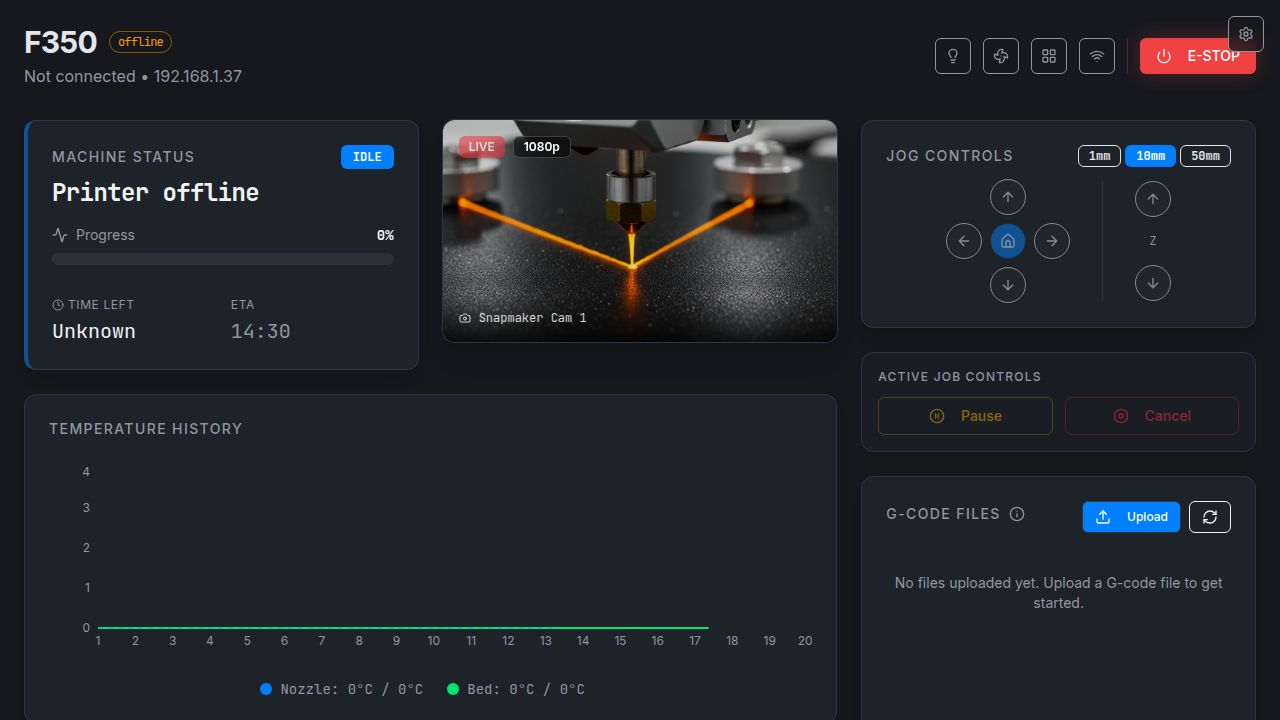
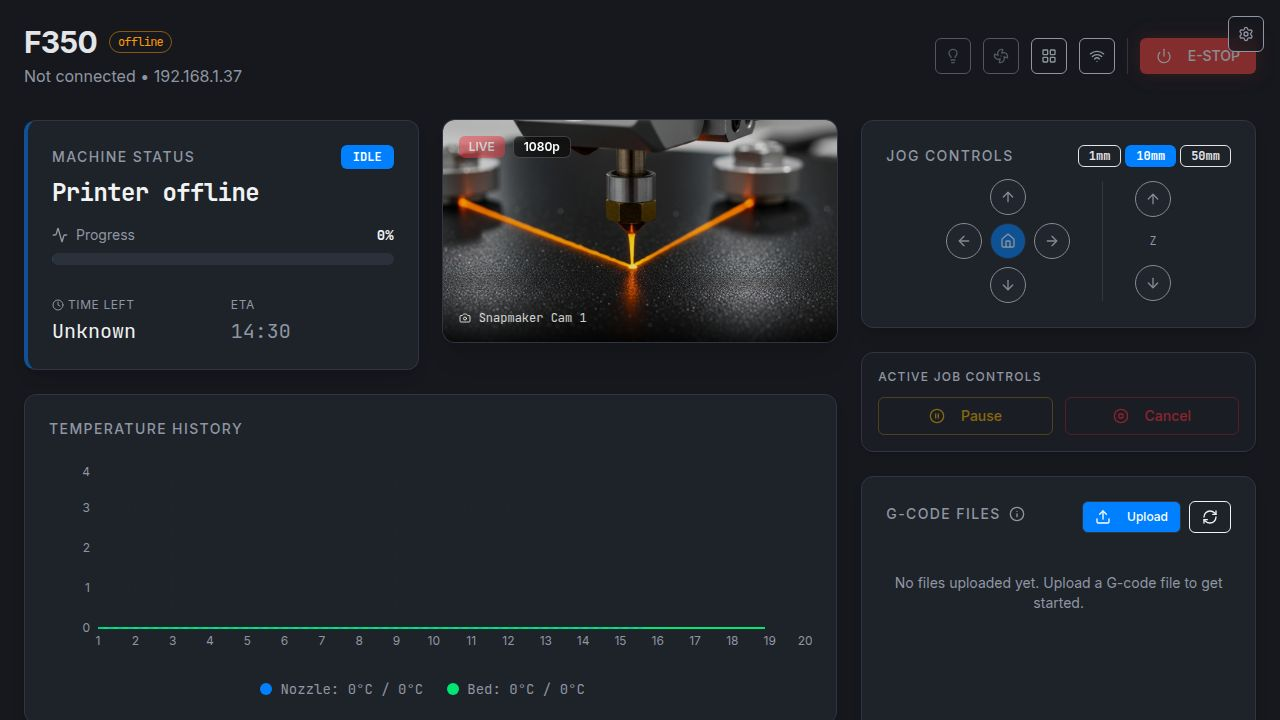
Add controls for light, fan, and emergency stop on printers
Implement new API endpoints and client-side logic to control printer light, fan, and emergency stop functions, including state management and mutations.

Replit-Commit-Author: Agent
Replit-Commit-Session-Id: 71031055-ad92-4510-ba9b-42b33c3663a2
Replit-Commit-Checkpoint-Type: intermediate_checkpoint
Replit-Commit-Event-Id: a1355a22-cac1-4ca8-a848-55f276d099ca
Replit-Commit-Screenshot-Url: https://storage.googleapis.com/screenshot-production-us-central1/361edf00-8169-450a-8cfc-e69e4d878aa2/71031055-ad92-4510-ba9b-42b33c3663a2/6hF8KQD
Replit-Helium-Checkpoint-Created: true

Changed region(s): [[0.875, 0.0306, 1.0, 0.1222], [0.5625, 0.8556, 0.5938, 0.8861]]

diff --git a/client/src/pages/Dashboard.tsx b/client/src/pages/Dashboard.tsx
@@ -120,6 +120,8 @@ export default function Dashboard() {
   const [customizeOpen, setCustomizeOpen] = useState(false);
   const [isDragging, setIsDragging] = useState(false);
   const [dragCounter, setDragCounter] = useState(0);
+  const [lightOn, setLightOn] = useState(false);
+  const [fanOn, setFanOn] = useState(false);
 
   const { data: printers = [], isLoading: printersLoading } = useQuery<Printer[]>({
     queryKey: ["/api/printers"],
@@ -298,6 +300,70 @@ export default function Dashboard() {
     onSuccess: (_, variables) => {
       toast.success("File uploaded successfully!");
       queryClient.invalidateQueries({ queryKey: [`/api/printers/${variables.printerId}/uploaded-files`] });
+    },
+    onError: (error: Error) => {
+      toast.error(error.message);
+    },
+  });
+
+  const emergencyStopMutation = useMutation({
+    mutationFn: async (printerId: number) => {
+      const res = await fetch(`/api/printers/${printerId}/emergency-stop`, {
+        method: "POST",
+      });
+      if (!res.ok) {
+        const data = await res.json();
+        throw new Error(data.error || "Failed to send emergency stop");
+      }
+      return res.json();
+    },
+    onSuccess: () => {
+      toast.success("Emergency stop sent!");
+      queryClient.invalidateQueries({ queryKey: ["/api/printers"] });
+    },
+    onError: (error: Error) => {
+      toast.error(error.message);
+    },
+  });
+
+  const lightMutation = useMutation({
+    mutationFn: async ({ printerId, enabled }: { printerId: number; enabled: boolean }) => {
+      const res = await fetch(`/api/printers/${printerId}/light`, {
+        method: "POST",
+        headers: { "Content-Type": "application/json" },
+        body: JSON.stringify({ enabled }),
+      });
+      if (!res.ok) {
+        const data = await res.json();
+        throw new Error(data.error || "Failed to control light");
+      }
+      return res.json();
+    },
+    onSuccess: (data) => {
+      setLightOn(data.enabled);
+      toast.success(data.message);
+    },
+    onError: (error: Error) => {
+      toast.error(error.message);
+    },
+  });
+
+  const fanMutation = useMutation({
+    mutationFn: async ({ printerId, enabled }: { printerId: number; enabled: boolean }) => {
+      const res = await fetch(`/api/printers/${printerId}/fan`, {
+        method: "POST",
+        headers: { "Content-Type": "application/json" },
+        body: JSON.stringify({ enabled }),
+      });
+      if (!res.ok) {
+        const data = await res.json();
+        throw new Error(data.error || "Failed to control fan");
+      }
+      return res.json();
+    },
+    onSuccess: (data) => {
+      setFanOn(data.enabled);
+      toast.success(data.message);
     },
     onError: (error: Error) => {
       toast.error(error.message);
@@ -567,7 +633,9 @@ export default function Dashboard() {
                 <Button
                   variant="outline"
                   size="icon"
-                  className="text-muted-foreground hover:text-foreground"
+                  className={`${lightOn ? 'text-yellow-500 border-yellow-500/50' : 'text-muted-foreground'} hover:text-foreground`}
+                  onClick={() => selectedPrinter && lightMutation.mutate({ printerId: selectedPrinter.id, enabled: !lightOn })}
+                  disabled={!isConnected || lightMutation.isPending}
                   data-testid="button-light"
                 >
                   <Lightbulb className="h-4 w-4" />
@@ -575,10 +643,12 @@ export default function Dashboard() {
                 <Button
                   variant="outline"
                   size="icon"
-                  className="text-muted-foreground hover:text-foreground"
+                  className={`${fanOn ? 'text-blue-500 border-blue-500/50' : 'text-muted-foreground'} hover:text-foreground`}
+                  onClick={() => selectedPrinter && fanMutation.mutate({ printerId: selectedPrinter.id, enabled: !fanOn })}
+                  disabled={!isConnected || fanMutation.isPending}
                   data-testid="button-fan"
                 >
-                  <Fan className="h-4 w-4" />
+                  <Fan className={`h-4 w-4 ${fanOn ? 'animate-spin' : ''}`} />
                 </Button>
                 <Sheet open={customizeOpen} onOpenChange={setCustomizeOpen}>
                   <SheetTrigger asChild>
@@ -648,6 +718,8 @@ export default function Dashboard() {
                 <Button
                   variant="destructive"
                   className="shadow-[0_0_20px_rgba(239,68,68,0.3)]"
+                  onClick={() => selectedPrinter && emergencyStopMutation.mutate(selectedPrinter.id)}
+                  disabled={!isConnected || emergencyStopMutation.isPending}
                   data-testid="button-estop"
                 >
                   <Power className="h-4 w-4 mr-2" /> E-STOP

diff --git a/server/routes.ts b/server/routes.ts
@@ -408,6 +408,107 @@ export async function registerRoutes(
     }
   });
 
+  // Emergency stop endpoint
+  app.post("/api/printers/:id/emergency-stop", async (req, res) => {
+    try {
+      const printerId = parseInt(req.params.id);
+      const printer = await storage.getPrinter(printerId);
+      
+      if (!printer) {
+        return res.status(404).json({ error: "Printer not found" });
+      }
+
+      if (!printer.token) {
+        return res.status(400).json({ error: "Printer not connected" });
+      }
+
+      // M112 is the emergency stop command
+      await snapmakerRequest(
+        printer.ipAddress,
+        "/api/v1/execute_code",
+        "POST",
+        `token=${encodeURIComponent(printer.token)}&code=${encodeURIComponent("M112")}`,
+        printer.token
+      );
+
+      res.json({ message: "Emergency stop sent" });
+    } catch (error) {
+      res.status(500).json({
+        error: error instanceof Error ? error.message : "Failed to send emergency stop",
+      });
+    }
+  });
+
+  // Light control endpoint (toggle enclosure LED)
+  app.post("/api/printers/:id/light", async (req, res) => {
+    try {
+      const printerId = parseInt(req.params.id);
+      const printer = await storage.getPrinter(printerId);
+      
+      if (!printer) {
+        return res.status(404).json({ error: "Printer not found" });
+      }
+
+      if (!printer.token) {
+        return res.status(400).json({ error: "Printer not connected" });
+      }
+
+      const { enabled } = req.body;
+      // M1010 S3 P<0-100> controls LED brightness (0 = off, 100 = full)
+      const brightness = enabled ? 100 : 0;
+      const gcode = `M1010 S3 P${brightness}`;
+      
+      await snapmakerRequest(
+        printer.ipAddress,
+        "/api/v1/execute_code",
+        "POST",
+        `token=${encodeURIComponent(printer.token)}&code=${encodeURIComponent(gcode)}`,
+        printer.token
+      );
+
+      res.json({ message: enabled ? "Light turned on" : "Light turned off", enabled });
+    } catch (error) {
+      res.status(500).json({
+        error: error instanceof Error ? error.message : "Failed to control light",
+      });
+    }
+  });
+
+  // Fan control endpoint (toggle cooling fan)
+  app.post("/api/printers/:id/fan", async (req, res) => {
+    try {
+      const printerId = parseInt(req.params.id);
+      const printer = await storage.getPrinter(printerId);
+      
+      if (!printer) {
+        return res.status(404).json({ error: "Printer not found" });
+      }
+
+      if (!printer.token) {
+        return res.status(400).json({ error: "Printer not connected" });
+      }
+
+      const { enabled } = req.body;
+      // M106 turns fan on, M107 turns fan off
+      // M106 P0 S<0-255> for precise control
+      const gcode = enabled ? "M106 S255" : "M107";
+      
+      await snapmakerRequest(
+        printer.ipAddress,
+        "/api/v1/execute_code",
+        "POST",
+        `token=${encodeURIComponent(printer.token)}&code=${encodeURIComponent(gcode)}`,
+        printer.token
+      );
+
+      res.json({ message: enabled ? "Fan turned on" : "Fan turned off", enabled });
+    } catch (error) {
+      res.status(500).json({
+        error: error instanceof Error ? error.message : "Failed to control fan",
+      });
+    }
+  });
+
   app.get("/api/printers/:id/files", async (req, res) => {
     try {
       const printerId = parseInt(req.params.id);
